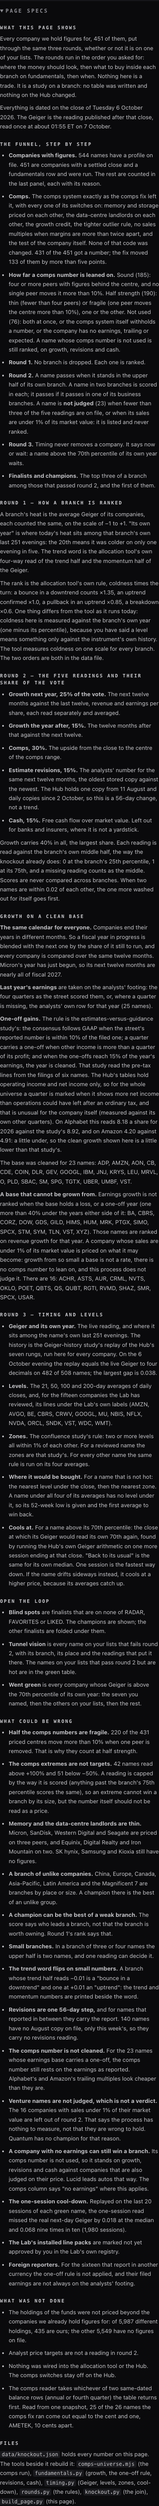
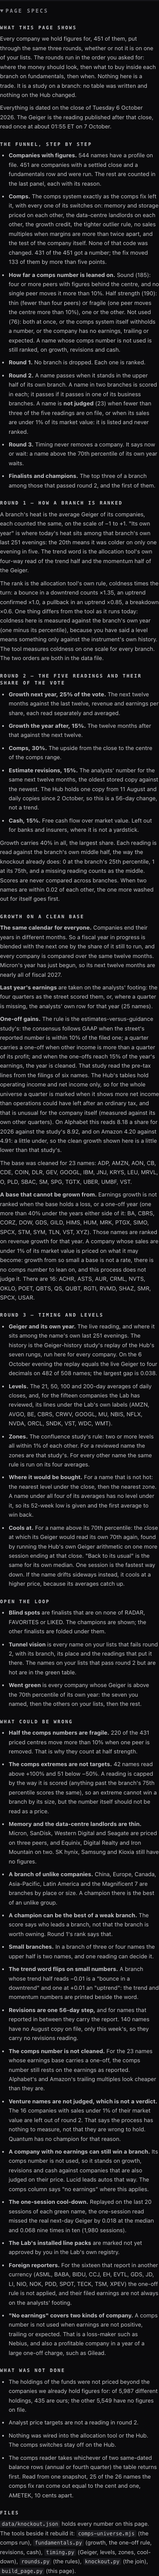
KO1 · PAGE SPECS reads its figures from the data; the bars tool builds its own list of names
- The one-off figures quoted for Alphabet and Amazon, the reviewed names and the foreign reporters are read from the
  data and the fixture, not typed.
- 'No earnings' is said to cover a loss-maker and also a profitable company in a year of a large one-off charge.
- bars.py writes symbols-to-replay.json itself (every served company and each branch's own fund) when it is missing.

Changed region(s): [[0.0, 0.0, 0.9918, 1.0]]

diff --git a/deliverables/20261007/knockout/KNOCKOUT.html b/deliverables/20261007/knockout/KNOCKOUT.html
@@ -174,7 +174,8 @@ details.sc-pagespecs code{font:12px ui-monospace,Menlo,monospace;color:#c8c8cc;b
 <li><b>A company with no earnings can still win a branch.</b> Its comps number is not used, so it stands on growth, revisions and cash against companies that are also judged on their price. Lucid leads autos that way. The comps column says "no earnings" where this applies.</li>
 <li><b>The one-session cool-down.</b> Replayed on the last 20 sessions of each green name, the one-session read missed the real next-day Geiger by 0.018 at the median and 0.068 nine times in ten (1,980 sessions).</li>
 <li><b>The Lab's installed line packs</b> are marked not yet approved by you in the Lab's own registry.</li>
-<li><b>Foreign reporters.</b> For the sixteen that report in another currency the one-off rule is not applied, and their filed earnings are not always on the analysts' footing.</li>
+<li><b>Foreign reporters.</b> For the sixteen that report in another currency (ASML, BABA, BIDU, CCJ, EH, EVTL, GDS, JD, LI, NIO, NOK, PDD, SPOT, TECK, TSM, XPEV) the one-off rule is not applied, and their filed earnings are not always on the analysts' footing.</li>
+<li><b>"No earnings" covers two kinds of company.</b> A comps number is not used when earnings are not positive, trailing or expected. That is a loss-maker such as Nebius, and also a profitable company in a year of a large one-off charge, such as Gilead.</li>
 </ul>
 <h4>WHAT WAS NOT DONE</h4>
 <ul>

diff --git a/deliverables/20261007/knockout/tools/build_page.py b/deliverables/20261007/knockout/tools/build_page.py
@@ -223,6 +223,12 @@ skip_html = f'<div class="panel"><div class="ph">COUNTED, NEVER DROPPED</div>{tb
 # ---------------------------------------------------------------- page specs
 W = RU["weights"]; ck = K["checks"]
 one_off = sorted((t, n["one_off"]) for t, n in N.items() if n["one_off"]); dips = sorted(t for t, n in N.items() if n.get("dip_years")); vent = sorted(t for t, n in N.items() if n.get("venture"))
+import re as _re
+def one_off_ps(t):                       # the per-share one-off this run read for a name's year in progress, from its own words
+    m = [_re.search(r"carries about ([0-9.]+) a share", w) for w in N[t]["one_off"] if "this year" in w]; return m[0].group(1) if m and m[0] else "—"
+FX = json.load(open(os.path.join(ROOT, "data", "fixture-one-off.json"), encoding="utf-8"))["study"]
+foreign = sorted(t for t, n in N.items() if (n.get("currency") or "USD") != "USD"); reviewed = sorted(t for t, n in N.items() if n["reviewed"])
+num_word = lambda k: {15: "fifteen", 16: "sixteen", 17: "seventeen"}.get(k, str(k))
 ups = [n["comps"] for n in N.values() if n["comps"] is not None]
 specs = f"""
 <details class="sc-pagespecs"><summary>PAGE SPECS</summary>
@@ -254,13 +260,13 @@ specs = f"""
 <h4>GROWTH ON A CLEAN BASE</h4>
 <p><b>The same calendar for everyone.</b> Companies end their years in different months. So a fiscal year in progress is blended with the next one by the share of it still to run, and every company is compared over the same twelve months. Micron's year has just begun, so its next twelve months are nearly all of fiscal 2027.</p>
 <p><b>Last year's earnings</b> are taken on the analysts' footing: the four quarters as the street scored them, or, where a quarter is missing, the analysts' own row for that year ({sum(1 for n in N.values() if n.get("base_basis") == "row")} names).</p>
-<p><b>One-off gains.</b> The rule is the estimates-versus-guidance study's: the consensus follows GAAP when the street's reported number is within 10% of the filed one; a quarter carries a one-off when other income is more than a quarter of its profit; and when the one-offs reach 15% of the year's earnings, the year is cleaned. That study read the pre-tax lines from the filings of six names. The Hub's tables hold operating income and net income only, so for the whole universe a quarter is marked when it shows more net income than operations could have left after an ordinary tax, and that is unusual for the company itself (measured against its own other quarters). On Alphabet this reads 8.18 a share for 2026 against the study's 8.92, and on Amazon 4.20 against 4.91: a little under, so the clean growth shown here is a little lower than that study's.</p>
+<p><b>One-off gains.</b> The rule is the estimates-versus-guidance study's: the consensus follows GAAP when the street's reported number is within 10% of the filed one; a quarter carries a one-off when other income is more than a quarter of its profit; and when the one-offs reach 15% of the year's earnings, the year is cleaned. That study read the pre-tax lines from the filings of six names. The Hub's tables hold operating income and net income only, so for the whole universe a quarter is marked when it shows more net income than operations could have left after an ordinary tax, and that is unusual for the company itself (measured against its own other quarters). On Alphabet this reads {one_off_ps("GOOGL")} a share for 2026 against the study's {FX["GOOGL"]["one_off_per_share"]}, and on Amazon {one_off_ps("AMZN")} against {FX["AMZN"]["one_off_per_share"]}: a little under, so the clean growth shown here is a little lower than that study's.</p>
 <p>The base was cleaned for {len(one_off)} names: {E(", ".join(t for t, _ in one_off))}.</p>
 <p><b>A base that cannot be grown from.</b> Earnings growth is not ranked when the base holds a loss, or a one-off year (one more than 40% under the years either side of it: {E(", ".join(dips))}). Those names are ranked on revenue growth for that year. A company whose sales are under 1% of its market value is priced on what it may become: growth from so small a base is not a rate, there is no comps number to lean on, and this process does not judge it. There are {len(vent)}: {E(", ".join(vent))}.</p>
 <h4>ROUND 3 — TIMING AND LEVELS</h4>
 <ul>
 <li><b>Geiger and its own year.</b> The live reading, and where it sits among the name's own last {RU["year"]} evenings. The history is the Geiger-history study's replay of the Hub's seven rungs, run here for every company. On the 6 October evening the replay equals the live Geiger to four decimals on {ck["replay"]["equal_4dp"]} of {ck["replay"]["names"]} names; the largest gap is {ck["replay"]["max"]:.3f}.</li>
-<li><b>Levels.</b> The 21, 50, 100 and 200-day averages of daily closes, and, for the fifteen companies the Lab has reviewed, its lines under the Lab's own labels (AMZN, AVGO, BE, CBRS, CRWV, GOOGL, MU, NBIS, NFLX, NVDA, ORCL, SNDK, VST, WDC, WMT).</li>
+<li><b>Levels.</b> The 21, 50, 100 and 200-day averages of daily closes, and, for the {num_word(len(reviewed))} companies the Lab has reviewed, its lines under the Lab's own labels ({E(", ".join(reviewed))}).</li>
 <li><b>Zones.</b> The confluence study's rule: two or more levels all within 1% of each other. For a reviewed name the zones are that study's. For every other name the same rule is run on its four averages.</li>
 <li><b>Where it would be bought.</b> For a name that is not hot: the nearest level under the close, then the nearest zone. A name under all four of its averages has no level under it, so its 52-week low is given and the first average to win back.</li>
 <li><b>Cools at.</b> For a name above its 70th percentile: the close at which its Geiger would read its own 70th again, found by running the Hub's own Geiger arithmetic on one more session ending at that close. "Back to its usual" is the same for its own median. One session is the fastest way down. If the name drifts sideways instead, it cools at a higher price, because its averages catch up.</li>
@@ -286,7 +292,8 @@ specs = f"""
 <li><b>A company with no earnings can still win a branch.</b> Its comps number is not used, so it stands on growth, revisions and cash against companies that are also judged on their price. Lucid leads autos that way. The comps column says "no earnings" where this applies.</li>
 <li><b>The one-session cool-down.</b> Replayed on the last 20 sessions of each green name, the one-session read missed the real next-day Geiger by {ck["cool"]["median_gap"]} at the median and {ck["cool"]["p90_gap"]} nine times in ten ({ck["cool"]["sessions"]:,} sessions).</li>
 {"<li><b>The Lab's installed line packs</b> are marked not yet approved by you in the Lab's own registry.</li>" if ck["confluence"].get("approved_by_alan") is False else ""}
-<li><b>Foreign reporters.</b> For the sixteen that report in another currency the one-off rule is not applied, and their filed earnings are not always on the analysts' footing.</li>
+<li><b>Foreign reporters.</b> For the {num_word(len(foreign))} that report in another currency ({E(", ".join(foreign))}) the one-off rule is not applied, and their filed earnings are not always on the analysts' footing.</li>
+<li><b>"No earnings" covers two kinds of company.</b> A comps number is not used when earnings are not positive, trailing or expected. That is a loss-maker such as Nebius, and also a profitable company in a year of a large one-off charge, such as Gilead.</li>
 </ul>
 <h4>WHAT WAS NOT DONE</h4>
 <ul>

diff --git a/deliverables/20261007/knockout/tools/bars.py b/deliverables/20261007/knockout/tools/bars.py
@@ -6,6 +6,11 @@ from concurrent.futures import ThreadPoolExecutor
 A = "https://scintilla-massive-chart-api.fly.dev"
 LIM = {"D": 560, "3D": 400, "W": 310, "180": 2200, "240": 1700, "6h": 1400, "12h": 850}
 GH = os.environ.get("KO1_FULL_BARS", "")   # a folder of full-depth bars already fetched after the close (the Geiger-history study's), if there is one
+if not os.path.exists("symbols-to-replay.json"):
+    # who is replayed: every served company (a profile that is not a fund), and the fund each branch of the tree names as its own line
+    L = lambda n: json.load(open(f"snap/{n}.json")); served = set(json.load(open("quotes-all-raw.json"))["quotes"]); prof = {r["ticker"]: r for r in L("company_profile")}
+    comp = sorted(t for t in served if t in prof and not prof[t]["is_etf"]); spine = sorted({r["spine_fund"] for r in L("cohort_tree") if r.get("spine_fund")} & served)
+    json.dump(list(dict.fromkeys(comp + spine + ["SPY", "QQQ", "IWM", "RSP", "SMH", "DRAM", "XLU"])), open("symbols-to-replay.json", "w"))
 syms = json.load(open("symbols-to-replay.json"))
 linked = 0
 for s in list(syms):

diff --git a/deliverables/20261007/knockout/tools/README.md b/deliverables/20261007/knockout/tools/README.md
@@ -8,7 +8,7 @@ Every step reads; none writes a table, deploys, or needs a Fly key. Run from an 
 |---|---|---|
 | 1 | `python3 tools/snapshot.py` | `snap/*.json` — one read of each public table, about 100 requests |
 | 2 | `node tools/comps-universe.mjs` | `comps-universe.json` — the fixed comps for every company, from the snapshot |
-| 3 | `python3 tools/bars.py` | `bars/*.npz` — bars for the Geiger replay (needs `symbols-to-replay.json`) |
+| 3 | `python3 tools/bars.py` | `bars/*.npz` — bars for the Geiger replay of every served company and each branch's own fund |
 | 4 | `python3 tools/bars_tail.py` | the newest session's intraday bars joined on |
 | 5 | `python3 tools/replay_all.py` | `replay.pkl` — every name's Geiger, evening by evening, checked against the live one |
 | 6 | `python3 tools/fundamentals.py` | `fundamentals.json` — growth on a clean base, revisions, cash |
